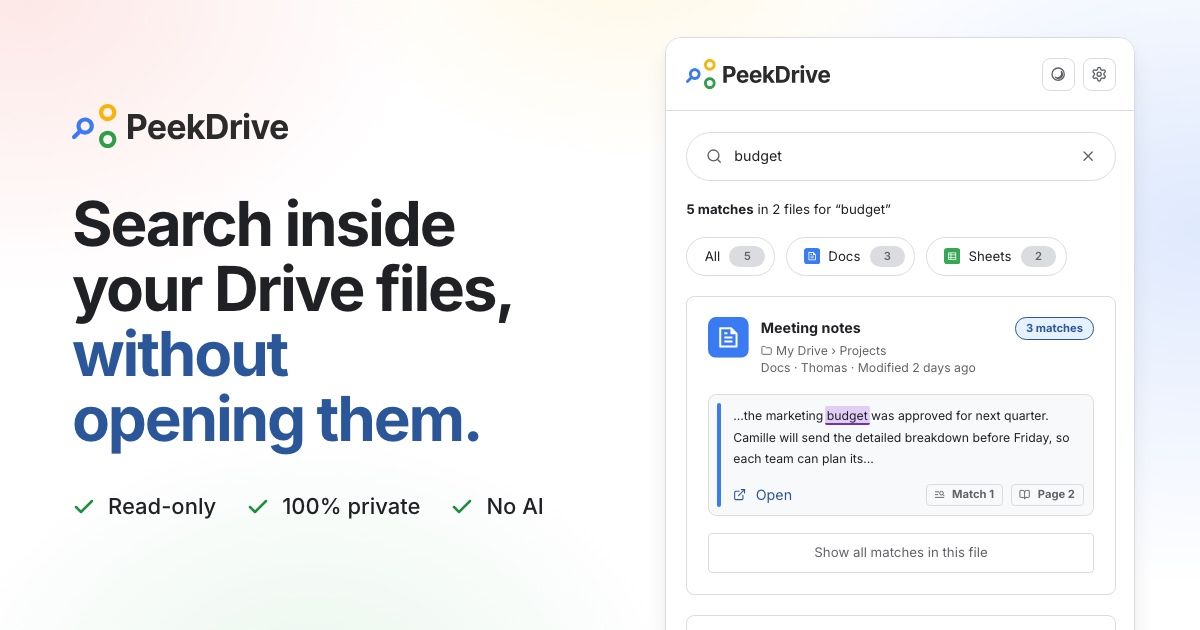
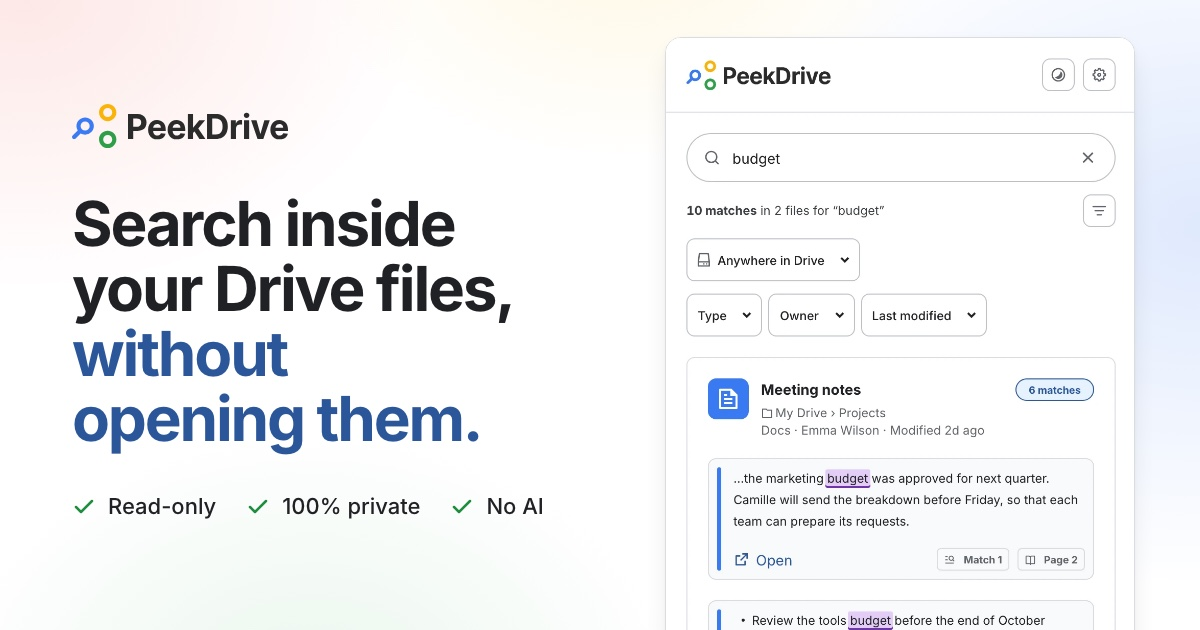
Accueil : le dessin du panneau devient une image du vrai panneau de la 1.0.0
- En haut de page, l'ancien dessin en HTML/CSS (ancienne interface : pastilles
  de type, « Afficher toutes les correspondances ») est remplacé par une image
  du panneau réel de la 1.0.0, une par langue (assets/panel-fr.webp,
  assets/panel-en.webp). Contenu de démonstration inventé autour du mot
  « budget ». Seule l'image de la langue affichée est téléchargée.
- Image de partage (assets/og.jpg) refaite avec ce même panneau.
- Styles et icônes de l'ancien dessin retirés ; type .webp déclaré au serveur.
- Bouton d'une page simple : marge prévue quand il est placé sous le titre.

diff --git a/assets/site.css b/assets/site.css
@@ -1,6 +1,6 @@
 /* PeekDrive website: shared styles for every page.
    Contents: fonts, tokens, base, layout, header, buttons, pastel backdrop, hero,
-   browser frame, PANEL MOCK (self-contained), landing sections, simple pages
+   browser frame, PANEL (pictures), landing sections, simple pages
    (welcome, uninstall), legal pages, footer, responsive, reduced motion.
    The pages load nothing else: no inline style, no external request. */
 
@@ -263,77 +263,16 @@ h3 { font-size: 1.0625rem; font-weight: 600; line-height: 1.35; letter-spacing: 
 .drive-rows li:nth-child(3n + 2) i { width: 48%; }
 .drive-rows li:nth-child(3n) i { width: 78%; }
 
-/* ══ PANEL MOCK ════════════════════════════════════════════════════════════
-   The PeekDrive panel, drawn in HTML/CSS from the design of the extension
-   (design/extension/Screen 1.png, 540 px wide at 1x). Self-contained: every
-   .pd-* rule and its own --pd-* properties live in this block, so the filter
-   row and the details can be re-aligned with the final panel in one place.
-   Sizes are the design's pixels; the whole panel is then scaled by --pd-zoom,
-   and --pd-hair keeps the borders one device pixel wide. */
+/* ══ PANEL ═════════════════════════════════════════════════════════════════
+   The PeekDrive panel: pictures of the extension's own interface, one per
+   language (assets/panel-en.webp, assets/panel-fr.webp: 460 px of panel at 2x,
+   made in the PeekDrive repository by ui/outils/demo-shots.mjs --site). A
+   picture takes the width of its column, --pd-w, set at each breakpoint. */
 .pd-wrap { flex: none; width: var(--pd-w, 424px); border-left: 1px solid var(--border); overflow: hidden; background: #FFFFFF; }
-.pd {
-  --pd-zoom: 0.92;
-  --pd-hair: calc(1px / var(--pd-zoom));
-  --pd-blue: #2B579A;
-  --pd-blue-tint: #E6F1FE;
-  --pd-text: #202124;
-  --pd-text-2: #5F6368;
-  --pd-border: #DADCE0;
-  --pd-surface: #F8F9FA;
-  --pd-hl: #E2CDF7;
-  --pd-hl-line: #7034AF;
-  --pd-bar: #3A7AF2;          /* excerpt bar: the colour of the file type */
-  --pd-sheets: #34A853;
-  --pd-pad: 20px;
-  --pd-radius: 8px;
-  zoom: var(--pd-zoom);
-  background: #FFFFFF; font-size: 13px; line-height: 1.5; color: var(--pd-text);
-}
-.pd-head { display: flex; align-items: center; justify-content: space-between; height: 72px; padding: 0 var(--pd-pad); border-bottom: var(--pd-hair) solid var(--pd-border); }
-.pd-logo { width: 141px; height: 29px; }
-.pd-btns { display: flex; gap: 8px; }
-.pd-btn { display: grid; place-items: center; width: 32px; height: 32px; border: var(--pd-hair) solid var(--pd-border); border-radius: var(--pd-radius); color: var(--pd-text-2); }
-.pd-btn .i { width: 16px; height: 16px; }
-.pd-btn .pd-moon { fill: currentColor; stroke: none; }
-.pd-body { padding: var(--pd-pad); }
-.pd-search { display: flex; align-items: center; gap: 12px; height: 48px; padding: 0 18px; border: var(--pd-hair) solid var(--pd-border); border-radius: 24px; font-size: 14px; line-height: 1; }
-.pd-search .i { width: 16px; height: 16px; color: var(--pd-text-2); }
-.pd-search span { flex: 1; }
-.pd-sum { margin: 19px 0 18px; font-size: 13px; line-height: 18px; color: var(--pd-text); }
-.pd-sum b { font-weight: 700; }
-.pd-chips { display: flex; flex-wrap: wrap; gap: 10px; }
-.pd-chip { display: inline-flex; align-items: center; gap: 8px; height: 38px; padding: 0 9px 0 17px; border: var(--pd-hair) solid var(--pd-border); border-radius: 19px; font-size: 13px; line-height: 1; white-space: nowrap; }
-.pd-chip svg { width: 16px; height: 16px; }
-.pd-chip i { display: grid; place-items: center; min-width: 35px; height: 21px; padding: 0 8px; margin-left: 1px; border-radius: 11px; background: var(--pd-border); font-style: normal; font-size: 11px; font-weight: 600; color: var(--pd-text-2); }
-.pd-card { margin-top: 20px; padding: var(--pd-pad); border: var(--pd-hair) solid var(--pd-border); border-radius: var(--pd-radius); }
-.pd-file { display: grid; grid-template-columns: 40px minmax(0, 1fr) auto; column-gap: 12px; align-items: start; }
-.pd-file > svg { grid-row: 1 / span 3; width: 40px; height: 40px; }
-.pd-file-title { grid-column: 2; margin-bottom: 2px; font-size: 14px; font-weight: 700; line-height: 22px; white-space: nowrap; overflow: hidden; text-overflow: ellipsis; }
-.pd-file-meta { grid-column: 2 / -1; display: flex; align-items: center; gap: 4px; font-size: 12px; line-height: 17px; color: var(--pd-text-2); white-space: nowrap; overflow: hidden; }
-.pd-file-meta .i { width: 11px; height: 11px; }
-.pd-count { grid-column: 3; grid-row: 1; height: 22px; padding: 0 10px; border: var(--pd-hair) solid var(--pd-blue); border-radius: 11px; background: var(--pd-blue-tint); font-size: 11px; font-weight: 700; line-height: calc(22px - 2 * var(--pd-hair)); color: var(--pd-blue); white-space: nowrap; }
-.pd-excerpt { position: relative; margin-top: 17px; padding: 10px 9px 9px 24px; border: var(--pd-hair) solid var(--pd-border); border-radius: var(--pd-radius); background: var(--pd-surface); }
-.pd-excerpt::before { content: ""; position: absolute; left: 8px; top: 8px; bottom: 8px; width: 4px; border-radius: 2px; background: var(--pd-bar); }
-.pd-excerpt--sheets { --pd-bar: var(--pd-sheets); }
-.pd-text { font-size: 12px; line-height: 21px; }
-.pd mark { padding: 2px 2px 0; margin: 0 -2px; border-bottom: 2px solid var(--pd-hl-line); border-radius: 2px; background: var(--pd-hl); color: inherit; }
-.pd-foot { display: flex; align-items: center; gap: 8px; margin-top: 14px; }
-.pd-open { display: inline-flex; align-items: center; gap: 9px; margin-right: auto; font-size: 14px; line-height: 22px; color: var(--pd-blue); white-space: nowrap; }
-.pd-open .i { width: 13px; height: 13px; }
-.pd-loc { display: inline-flex; align-items: center; gap: 7px; height: 22px; padding: 0 8px 0 7px; border: var(--pd-hair) solid var(--pd-border); border-radius: 4px; background: var(--pd-surface); font-size: 11px; font-weight: 700; line-height: 1; color: var(--pd-text-2); white-space: nowrap; }
-.pd-loc .i { width: 11px; height: 11px; }
-.pd-all { display: grid; place-items: center; height: 40px; margin-top: 16px; border: var(--pd-hair) solid var(--pd-border); border-radius: 4px; font-size: 13px; line-height: 1; color: var(--pd-text-2); white-space: nowrap; overflow: hidden; }
-.pd-tab { display: inline-block; height: 22px; padding: 0 8px; border: var(--pd-hair) solid #BAE4C5; border-radius: 4px; background: #E7F5EB; font-size: 11px; font-weight: 700; line-height: calc(22px - 2 * var(--pd-hair)); color: #1E8E3E; }
-.pd-table { width: 100%; margin-top: 12px; border-collapse: separate; border-spacing: 0; border: var(--pd-hair) solid var(--pd-border); border-radius: var(--pd-radius); background: #FFFFFF; font-size: 12px; line-height: 20px; table-layout: fixed; overflow: hidden; }
-.pd-table th, .pd-table td { padding: 6px 10px; text-align: left; font-weight: 400; white-space: nowrap; overflow: hidden; text-overflow: ellipsis; border-left: var(--pd-hair) solid var(--pd-border); }
-.pd-table th:first-child, .pd-table td:first-child { border-left: 0; }
-.pd-table th { font-weight: 700; border-bottom: var(--pd-hair) solid var(--pd-border); }
-.pd-table th:first-child { width: 46%; }
-.pd-table .is-hit { background: #FEF7E0; }
-@supports not (zoom: 1) {
-  .pd { width: 108.7%; transform: scale(0.92); transform-origin: 0 0; }
-}
-/* ══ end of PANEL MOCK ═════════════════════════════════════════════════════ */
+.pd-shot { display: block; width: 100%; height: auto; }
+.pd-shot--fr, html[lang="fr"] .pd-shot--en { display: none; }
+html[lang="fr"] .pd-shot--fr { display: block; }
+/* ══ end of PANEL ══════════════════════════════════════════════════════════ */
 
 /* ── Facts band ──────────────────────────────────────────────────────────── */
 .facts { position: relative; padding-block: clamp(40px, 5vw, 64px) 0; }
@@ -444,6 +383,7 @@ kbd { font-family: inherit; font-size: inherit; font-weight: 600; color: var(--t
 .guide .step-note { margin-top: 14px; padding: 12px 16px; border: 1px solid var(--border-soft); border-radius: var(--radius-s); background: var(--surface); font-size: 0.9375rem; line-height: 1.6; }
 .ico { display: inline-block; width: 1.15em; height: 1.15em; vertical-align: -0.22em; fill: var(--text); }
 .page-cta { margin-top: 36px; text-align: center; }
+.page-hero .page-cta { margin-top: 28px; }
 .form-note a, .form-fail a, .prose a { text-decoration: underline; text-underline-offset: 3px; text-decoration-thickness: 1px; }
 .form-note a:hover, .form-fail a:hover, .prose a:hover { text-decoration-thickness: 2px; }
 
@@ -524,8 +464,6 @@ kbd { font-family: inherit; font-size: inherit; font-weight: 600; color: var(--t
   .hero-copy { align-self: center; padding-block: 64px 88px; }
   .hero-visual { --bleed: 32px; min-height: 627px; margin-top: 32px; }
   .pd-wrap { --pd-w: 340px; }
-  .pd { --pd-zoom: 0.78; }
-  @supports not (zoom: 1) { .pd { width: 128.2%; transform: scale(0.78); } }
   .privacy-grid { gap: 48px; }
   .nav { gap: 24px; }
   .nav-links { gap: 22px; }
@@ -554,8 +492,6 @@ kbd { font-family: inherit; font-size: inherit; font-weight: 600; color: var(--t
   .hero .lead { max-width: 600px; }
   .hero-visual { --bleed: 24px; width: 100%; max-width: 608px; height: 618px; min-height: 0; margin: 32px auto 0; }
   .pd-wrap { --pd-w: 436px; }
-  .pd { --pd-zoom: 0.94; }
-  @supports not (zoom: 1) { .pd { width: 106.4%; transform: scale(0.94); } }
   .cards { grid-template-columns: repeat(2, minmax(0, 1fr)); }
   .privacy-grid { grid-template-columns: minmax(0, 1fr); gap: 48px; }
   .rules--3 { grid-template-columns: minmax(0, 1fr); gap: 28px; }
@@ -576,8 +512,6 @@ kbd { font-family: inherit; font-size: inherit; font-weight: 600; color: var(--t
   .ticks { gap: 10px 18px; font-size: 0.875rem; }
   .drive { display: none; }
   .pd-wrap { flex: 1; width: auto; border-left: 0; }
-  .pd { --pd-zoom: 0.74; }
-  @supports not (zoom: 1) { .pd { width: 135.2%; transform: scale(0.74); } }
   .facts-grid { grid-template-columns: minmax(0, 1fr); gap: 28px; }
   .fact-value, .rule h3 { font-size: 1.125rem; }
   .uses { grid-template-columns: minmax(0, 1fr); }
@@ -617,8 +551,6 @@ kbd { font-family: inherit; font-size: inherit; font-weight: 600; color: var(--t
 /* Smallest phones: the panel keeps the design width it has at 360 px, and the
    three ticks, which no longer fit on one row, are stacked. */
 @media (max-width: 339px) {
-  .pd { --pd-zoom: 0.64; }
-  @supports not (zoom: 1) { .pd { width: 156.25%; transform: scale(0.64); } }
   .ticks { flex-direction: column; }
   .hero-visual { height: 450px; }
 }

diff --git a/index.html b/index.html
@@ -54,13 +54,6 @@
         <symbol id="i-arrow" viewBox="0 0 24 24"><path d="M5 12h14"/><path d="m12 5 7 7-7 7"/></symbol>
         <symbol id="i-x" viewBox="0 0 24 24"><path d="M18 6 6 18"/><path d="m6 6 12 12"/></symbol>
         <symbol id="i-lock" viewBox="0 0 24 24"><rect width="18" height="11" x="3" y="11" rx="2"/><path d="M7 11V7a5 5 0 0 1 10 0v4"/></symbol>
-        <symbol id="i-open" viewBox="0 0 24 24"><path d="M15 3h6v6"/><path d="M10 14 21 3"/><path d="M18 13v6a2 2 0 0 1-2 2H5a2 2 0 0 1-2-2V8a2 2 0 0 1 2-2h6"/></symbol>
-        <symbol id="i-folder" viewBox="0 0 24 24"><path d="M20 20a2 2 0 0 0 2-2V8a2 2 0 0 0-2-2h-7.9a2 2 0 0 1-1.69-.9L9.6 3.9A2 2 0 0 0 7.93 3H4a2 2 0 0 0-2 2v13a2 2 0 0 0 2 2Z"/></symbol>
-        <symbol id="i-book" viewBox="0 0 24 24"><path d="M12 7v14"/><path d="M3 18a1 1 0 0 1-1-1V4a1 1 0 0 1 1-1h5a4 4 0 0 1 4 4 4 4 0 0 1 4-4h5a1 1 0 0 1 1 1v13a1 1 0 0 1-1 1h-6a3 3 0 0 0-3 3 3 3 0 0 0-3-3z"/></symbol>
-        <symbol id="i-table" viewBox="0 0 24 24"><rect width="18" height="18" x="3" y="3" rx="2"/><path d="M3 9h18"/><path d="M3 15h18"/><path d="M9 3v18"/><path d="M15 3v18"/></symbol>
-        <symbol id="i-match" viewBox="0 0 24 24"><path d="M3 6h7"/><path d="M3 12h5"/><path d="M3 18h18"/><circle cx="16" cy="9" r="4"/><path d="m21.5 14.5-2.6-2.6"/></symbol>
-        <symbol id="i-gear" viewBox="0 0 24 24"><path d="M12.22 2h-.44a2 2 0 0 0-2 2v.18a2 2 0 0 1-1 1.73l-.43.25a2 2 0 0 1-2 0l-.15-.08a2 2 0 0 0-2.73.73l-.22.38a2 2 0 0 0 .73 2.73l.15.1a2 2 0 0 1 1 1.72v.51a2 2 0 0 1-1 1.74l-.15.09a2 2 0 0 0-.73 2.73l.22.38a2 2 0 0 0 2.73.73l.15-.08a2 2 0 0 1 2 0l.43.25a2 2 0 0 1 1 1.73V20a2 2 0 0 0 2 2h.44a2 2 0 0 0 2-2v-.18a2 2 0 0 1 1-1.73l.43-.25a2 2 0 0 1 2 0l.15.08a2 2 0 0 0 2.73-.73l.22-.39a2 2 0 0 0-.73-2.73l-.15-.08a2 2 0 0 1-1-1.74v-.5a2 2 0 0 1 1-1.74l.15-.09a2 2 0 0 0 .73-2.73l-.22-.38a2 2 0 0 0-2.73-.73l-.15.08a2 2 0 0 1-2 0l-.43-.25a2 2 0 0 1-1-1.73V4a2 2 0 0 0-2-2z"/><circle cx="12" cy="12" r="3"/></symbol>
-        <symbol id="i-theme" viewBox="0 0 24 24"><circle cx="12" cy="12" r="9"/><path class="pd-moon" d="M16.6 8.2a6.2 6.2 0 0 1-8.4 8.4 5.6 5.6 0 0 0 8.4-8.4Z"/></symbol>
         <symbol id="i-passage" viewBox="0 0 24 24"><path d="M4 5h16"/><rect x="4" y="9.5" width="11" height="5" rx="1.5"/><path d="M19 12h1"/><path d="M4 19h12"/></symbol>
         <symbol id="i-target" viewBox="0 0 24 24"><path d="M15 3h4a2 2 0 0 1 2 2v14a2 2 0 0 1-2 2h-4"/><path d="m10 17 5-5-5-5"/><path d="M15 12H3"/></symbol>
         <symbol id="i-grid" viewBox="0 0 24 24"><rect width="7" height="7" x="3" y="3" rx="1.5"/><rect width="7" height="7" x="14" y="3" rx="1.5"/><rect width="7" height="7" x="14" y="14" rx="1.5"/><rect width="7" height="7" x="3" y="14" rx="1.5"/></symbol>
@@ -132,69 +125,14 @@
                                 </ul>
                             </div>
 
-                            <!-- PANEL MOCK: the PeekDrive panel in HTML/CSS. Self-contained block,
-                                 styled by the "PANEL MOCK" section of assets/site.css (.pd-*). -->
+                            <!-- PANEL: the PeekDrive panel, as pictures of the extension's own interface,
+                                 one per language (made in the PeekDrive repository:
+                                 node ui/outils/demo-shots.mjs <assets> --site). The figure describes them. -->
                             <div class="pd-wrap">
-                                <div class="pd">
-                                    <div class="pd-head">
-                                        <img class="pd-logo" src="logo.svg" alt="" width="141" height="29">
-                                        <span class="pd-btns">
-                                            <span class="pd-btn"><svg class="i"><use href="#i-theme"/></svg></span>
-                                            <span class="pd-btn"><svg class="i"><use href="#i-gear"/></svg></span>
-                                        </span>
-                                    </div>
-                                    <div class="pd-body">
-                                        <div class="pd-search"><svg class="i"><use href="#i-search"/></svg><span>budget</span><svg class="i"><use href="#i-x"/></svg></div>
-                                        <p class="pd-sum" data-en="&lt;b&gt;5 matches&lt;/b&gt; in 2 files for “budget”" data-fr="&lt;b&gt;5 correspondances&lt;/b&gt; dans 2 fichiers pour «&amp;nbsp;budget&amp;nbsp;»"><b>5 matches</b> in 2 files for “budget”</p>
-                                        <div class="pd-chips">
-                                            <span class="pd-chip"><span data-en="All" data-fr="Tous">All</span><i>5</i></span>
-                                            <span class="pd-chip"><svg viewBox="0 0 40 40"><use href="#t-docs"/></svg><span>Docs</span><i>3</i></span>
-                                            <span class="pd-chip"><svg viewBox="0 0 40 40"><use href="#t-sheets"/></svg><span>Sheets</span><i>2</i></span>
-                                        </div>
-
-                                        <div class="pd-card">
-                                            <div class="pd-file">
-                                                <svg viewBox="0 0 40 40"><use href="#t-docs"/></svg>
-                                                <span class="pd-file-title" data-en="Meeting notes" data-fr="Notes de réunion">Meeting notes</span>
-                                                <span class="pd-count" data-en="3 matches" data-fr="3 correspondances">3 matches</span>
-                                                <span class="pd-file-meta"><svg class="i"><use href="#i-folder"/></svg><span data-en="My Drive › Projects" data-fr="Mon Drive › Projets">My Drive › Projects</span></span>
-                                                <span class="pd-file-meta" data-en="Docs · Thomas · Modified 2 days ago" data-fr="Docs · Thomas · Modifié il y a 2 jours">Docs · Thomas · Modified 2 days ago</span>
-                                            </div>
-                                            <div class="pd-excerpt">
-                                                <p class="pd-text" data-en="…the marketing &lt;mark&gt;budget&lt;/mark&gt; was approved for next quarter. Camille will send the detailed breakdown before Friday, so each team can plan its…" data-fr="…le &lt;mark&gt;budget&lt;/mark&gt; marketing a été validé pour le prochain trimestre. Camille enverra le détail avant vendredi, pour que chaque équipe puisse planifier…">…the marketing <mark>budget</mark> was approved for next quarter. Camille will send the detailed breakdown before Friday, so each team can plan its…</p>
-                                                <div class="pd-foot">
-                                                    <span class="pd-open"><svg class="i"><use href="#i-open"/></svg><span data-en="Open" data-fr="Ouvrir">Open</span></span>
-                                                    <span class="pd-loc"><svg class="i"><use href="#i-match"/></svg><span data-en="Match 1" data-fr="Correspondance 1">Match 1</span></span>
-                                                    <span class="pd-loc"><svg class="i"><use href="#i-book"/></svg><span>Page 2</span></span>
-                                                </div>
-                                            </div>
-                                            <div class="pd-all" data-en="Show all matches in this file" data-fr="Afficher toutes les correspondances de ce fichier">Show all matches in this file</div>
-                                        </div>
-
-                                        <div class="pd-card">
-                                            <div class="pd-file">
-                                                <svg viewBox="0 0 40 40"><use href="#t-sheets"/></svg>
-                                                <span class="pd-file-title" data-en="Forecast 2026" data-fr="Prévisionnel 2026">Forecast 2026</span>
-                                                <span class="pd-count" data-en="2 matches" data-fr="2 correspondances">2 matches</span>
-                                                <span class="pd-file-meta"><svg class="i"><use href="#i-folder"/></svg><span data-en="Shared drives › Finance" data-fr="Drive partagés › Finance">Shared drives › Finance</span></span>
-                                                <span class="pd-file-meta" data-en="Sheets · Thomas · Modified 5 days ago" data-fr="Sheets · Thomas · Modifié il y a 5 jours">Sheets · Thomas · Modified 5 days ago</span>
-                                            </div>
-                                            <div class="pd-excerpt pd-excerpt--sheets">
-                                                <span class="pd-tab" data-en="Summary" data-fr="Synthèse">Summary</span>
-                                                <table class="pd-table">
-                                                    <tr><th data-en="Item" data-fr="Poste">Item</th><th data-en="Planned" data-fr="Prévu">Planned</th><th data-en="Spent" data-fr="Dépensé">Spent</th></tr>
-                                                    <tr><td class="is-hit" data-en="&lt;mark&gt;Budget&lt;/mark&gt; marketing" data-fr="&lt;mark&gt;Budget&lt;/mark&gt; marketing"><mark>Budget</mark> marketing</td><td>18 500</td><td>9 450</td></tr>
-                                                </table>
-                                                <div class="pd-foot">
-                                                    <span class="pd-open"><svg class="i"><use href="#i-open"/></svg><span data-en="Open" data-fr="Ouvrir">Open</span></span>
-                                                    <span class="pd-loc"><svg class="i"><use href="#i-table"/></svg><span data-en="Row 4, column A" data-fr="Ligne 4, colonne A">Row 4, column A</span></span>
-                                                </div>
-                                            </div>
-                                        </div>
-                                    </div>
-                                </div>
+                                <img class="pd-shot pd-shot--en" src="assets/panel-en.webp" width="920" height="1800" alt="" loading="lazy" decoding="async">
+                                <img class="pd-shot pd-shot--fr" src="assets/panel-fr.webp" width="920" height="1800" alt="" loading="lazy" decoding="async">
                             </div>
-                            <!-- end of PANEL MOCK -->
+                            <!-- end of PANEL -->
                         </div>
                     </div>
                 </figure>
